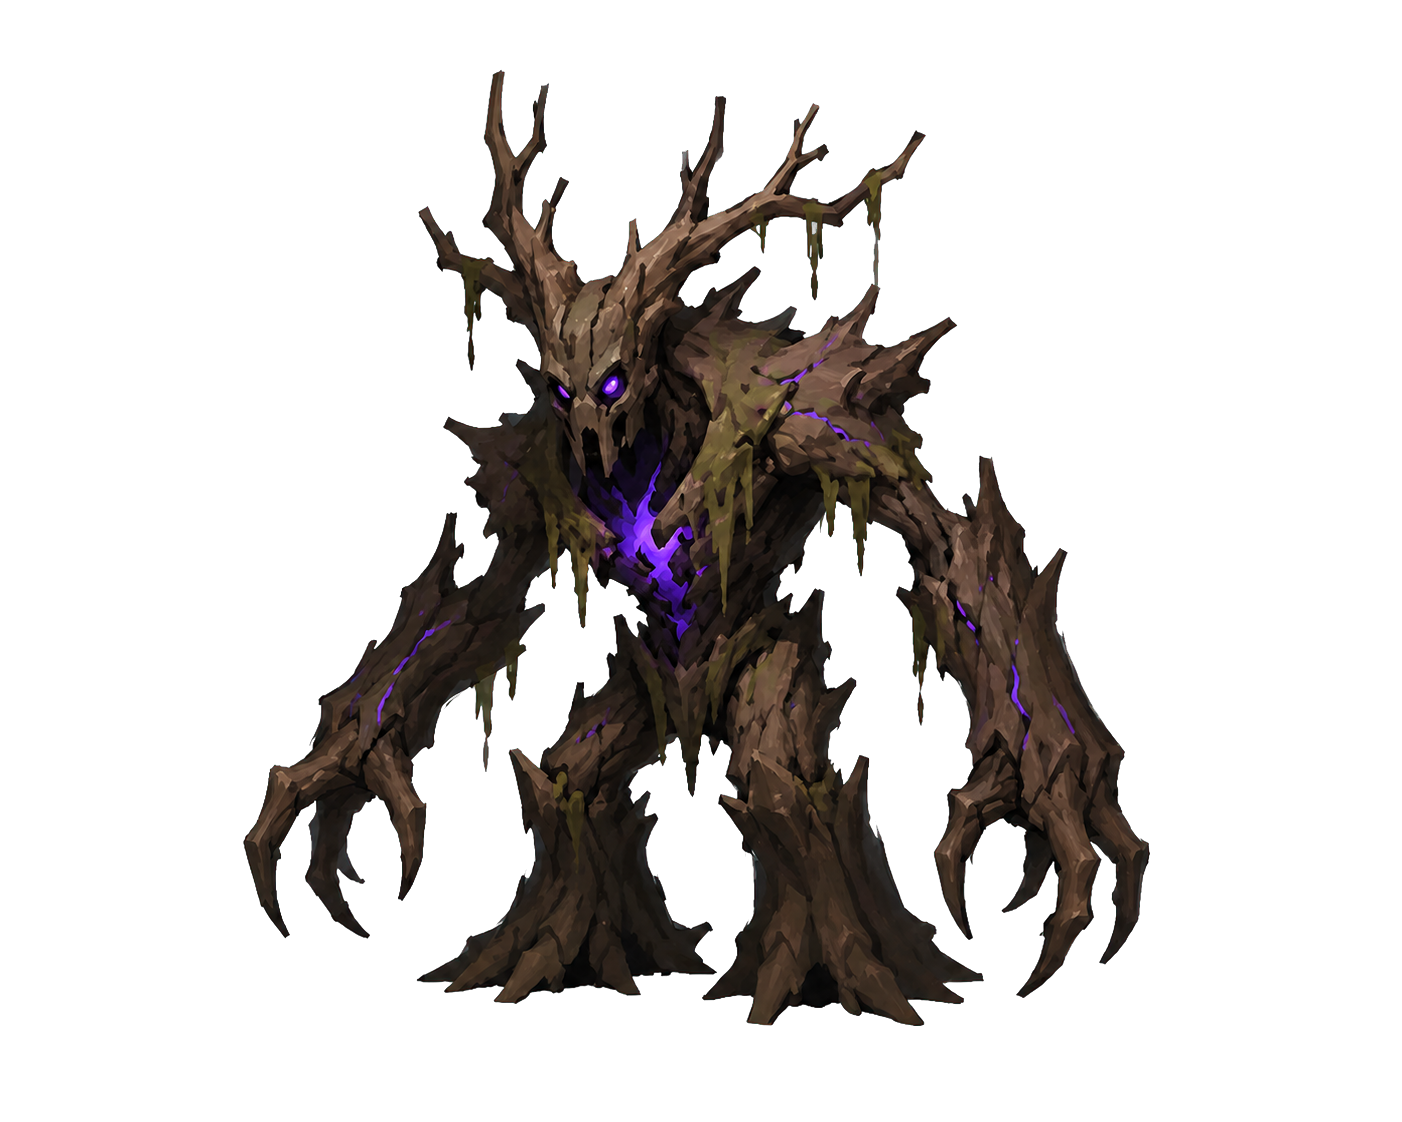
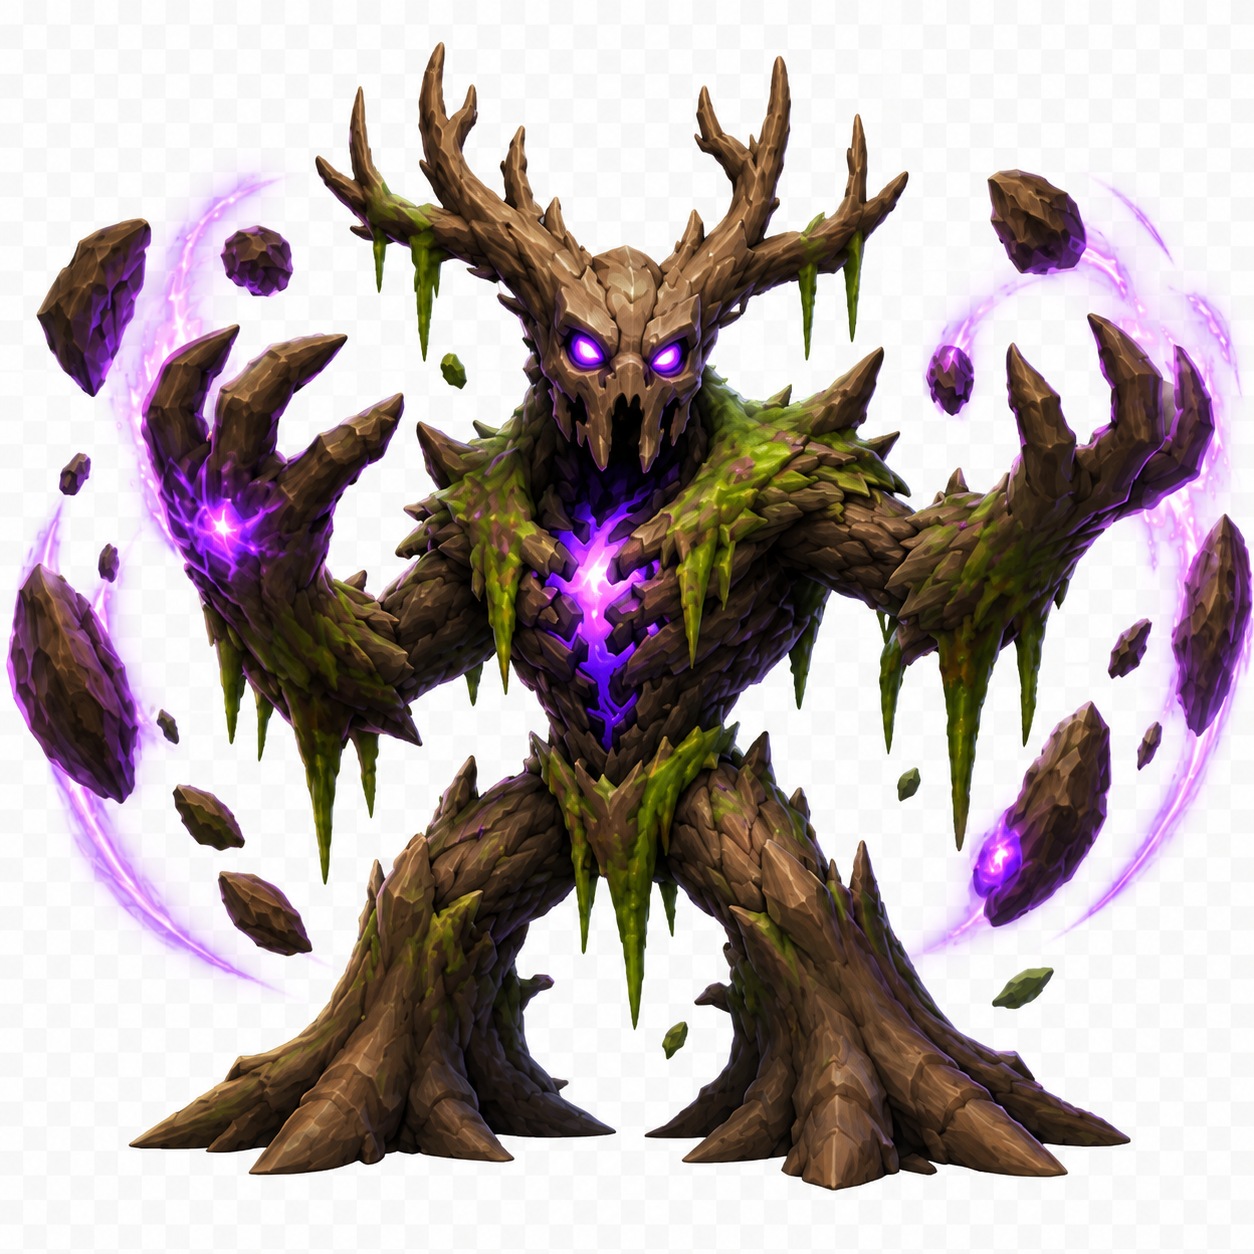
更新黑森林入口怪物圖片

diff --git a/black-forest-entrance-policy.js b/black-forest-entrance-policy.js
@@ -45,12 +45,12 @@
   }
 
   const MONSTERS = Object.freeze([
-    monster('black-forest-wolf', '黑森林野狼', 'normal', '快速流血攻擊', { combatId: 'blackForestWolf', level: Object.freeze([15, 16]), image: 'assets/black-forest-wolf.png', stats: Object.freeze({ maxHp: 145, attack: 27, defense: 13, evasion: 12, parry: 0, damageReduction: 2, attackSpeed: 1.2, xp: 20, gold: 10 }), skillIds: Object.freeze(['shadow-bite']), aiProfileId: 'fast-bleeder' }),
-    monster('corrupted-boar', '腐化野豬', 'normal', '高耐久衝撞怪物', { combatId: 'corruptedBoar', level: Object.freeze([15, 16]), image: 'assets/corrupted-boar.png', stats: Object.freeze({ maxHp: 220, attack: 26, defense: 20, evasion: 2, parry: 0, damageReduction: 8, attackSpeed: .8, xp: 23, gold: 12 }), skillIds: Object.freeze(['corrupted-hide', 'irritable', 'charge']), aiProfileId: 'durable-charger' }),
-    monster('shadow-spider', '暗影蜘蛛', 'normal', '持續中毒攻擊', { combatId: 'shadowSpider', level: Object.freeze([16, 17]), image: 'assets/shadow-spider.png', stats: Object.freeze({ maxHp: 155, attack: 24, defense: 12, evasion: 10, parry: 0, damageReduction: 1, attackSpeed: 1.1, xp: 24, gold: 12 }), skillIds: Object.freeze(['venom-fang']), aiProfileId: 'poison-controller', tags: Object.freeze(['poison']) }),
-    monster('withered-tree-walker', '枯木行者', 'normal', '高防禦控制怪物', { combatId: 'witheredTreeWalker', level: Object.freeze([16, 17]), image: 'assets/withered-tree-walker.png', stats: Object.freeze({ maxHp: 250, attack: 23, defense: 23, evasion: 0, parry: 0, damageReduction: 10, attackSpeed: .7, xp: 27, gold: 14 }), skillIds: Object.freeze(['bark-armor', 'entangling-roots']), aiProfileId: 'tank-controller' }),
-    monster('black-forest-hunter', '黑森林獵人', 'elite', '束縛與處決低生命目標', { combatId: 'blackForestHunter', level: Object.freeze([17, 17]), image: 'assets/black-forest-hunter.png', stats: Object.freeze({ maxHp: 620, attack: 34, defense: 18, evasion: 13, parry: 8, damageReduction: 7, attackSpeed: 1.15, xp: 72, gold: 42 }), skillIds: Object.freeze(['binding-arrow', 'execution-arrow']), aiProfileId: 'lowest-health-executioner', visualStyle: 'night-elf' }),
-    monster('forest-guardian', '森林守護者', 'boss', '三階段入口守關 Boss', { combatId: 'forestGuardianV2', level: Object.freeze([17, 17]), image: 'assets/forest-guardian.png', stats: Object.freeze({ maxHp: 2100, attack: 33, defense: 25, evasion: 4, parry: 6, damageReduction: 12, attackSpeed: .9, xp: 300, gold: 180 }), skillIds: Object.freeze(['root-strike', 'leaf-storm', 'forest-wrath']), aiProfileId: 'three-phase-guardian' })
+    monster('black-forest-wolf', '黑森林野狼', 'normal', '快速流血攻擊', { combatId: 'blackForestWolf', level: Object.freeze([15, 16]), image: 'assets/black-forest-wolf.png?v=20260901-entrance-monsters-v2', stats: Object.freeze({ maxHp: 145, attack: 27, defense: 13, evasion: 12, parry: 0, damageReduction: 2, attackSpeed: 1.2, xp: 20, gold: 10 }), skillIds: Object.freeze(['shadow-bite']), aiProfileId: 'fast-bleeder' }),
+    monster('corrupted-boar', '腐化野豬', 'normal', '高耐久衝撞怪物', { combatId: 'corruptedBoar', level: Object.freeze([15, 16]), image: 'assets/corrupted-boar.png?v=20260901-entrance-monsters-v2', stats: Object.freeze({ maxHp: 220, attack: 26, defense: 20, evasion: 2, parry: 0, damageReduction: 8, attackSpeed: .8, xp: 23, gold: 12 }), skillIds: Object.freeze(['corrupted-hide', 'irritable', 'charge']), aiProfileId: 'durable-charger' }),
+    monster('shadow-spider', '暗影蜘蛛', 'normal', '持續中毒攻擊', { combatId: 'shadowSpider', level: Object.freeze([16, 17]), image: 'assets/shadow-spider.png?v=20260901-entrance-monsters-v2', stats: Object.freeze({ maxHp: 155, attack: 24, defense: 12, evasion: 10, parry: 0, damageReduction: 1, attackSpeed: 1.1, xp: 24, gold: 12 }), skillIds: Object.freeze(['venom-fang']), aiProfileId: 'poison-controller', tags: Object.freeze(['poison']) }),
+    monster('withered-tree-walker', '枯木行者', 'normal', '高防禦控制怪物', { combatId: 'witheredTreeWalker', level: Object.freeze([16, 17]), image: 'assets/withered-tree-walker.png?v=20260901-entrance-monsters-v2', stats: Object.freeze({ maxHp: 250, attack: 23, defense: 23, evasion: 0, parry: 0, damageReduction: 10, attackSpeed: .7, xp: 27, gold: 14 }), skillIds: Object.freeze(['bark-armor', 'entangling-roots']), aiProfileId: 'tank-controller' }),
+    monster('black-forest-hunter', '黑森林獵人', 'elite', '束縛與處決低生命目標', { combatId: 'blackForestHunter', level: Object.freeze([17, 17]), image: 'assets/black-forest-hunter.png?v=20260901-entrance-monsters-v2', stats: Object.freeze({ maxHp: 620, attack: 34, defense: 18, evasion: 13, parry: 8, damageReduction: 7, attackSpeed: 1.15, xp: 72, gold: 42 }), skillIds: Object.freeze(['binding-arrow', 'execution-arrow']), aiProfileId: 'lowest-health-executioner', visualStyle: 'night-elf' }),
+    monster('forest-guardian', '森林守護者', 'boss', '三階段入口守關 Boss', { combatId: 'forestGuardianV2', level: Object.freeze([17, 17]), image: 'assets/forest-guardian.png?v=20260901-entrance-monsters-v2', stats: Object.freeze({ maxHp: 2100, attack: 33, defense: 25, evasion: 4, parry: 6, damageReduction: 12, attackSpeed: .9, xp: 300, gold: 180 }), skillIds: Object.freeze(['root-strike', 'leaf-storm', 'forest-wrath']), aiProfileId: 'three-phase-guardian' })
   ]);
 
   const MONSTER_BY_ID = new Map(MONSTERS.map((entry) => [entry.id, entry]));

diff --git a/tests/black-forest-entrance-policy.test.js b/tests/black-forest-entrance-policy.test.js
@@ -20,12 +20,13 @@ assert.equal(policy.getMonstersByRank('elite').length, 1);
 assert.equal(policy.getMonstersByRank('boss').length, 1);
 assert.equal(policy.getMonster('black-forest-hunter').visualStyle, 'night-elf');
 assert.deepEqual(policy.getMonster('shadow-spider').tags, ['poison']);
-assert.equal(policy.getMonster('black-forest-wolf').image, 'assets/black-forest-wolf.png');
-assert.equal(policy.getMonster('corrupted-boar').image, 'assets/corrupted-boar.png');
-assert.equal(policy.getMonster('shadow-spider').image, 'assets/shadow-spider.png');
-assert.equal(policy.getMonster('withered-tree-walker').image, 'assets/withered-tree-walker.png');
-assert.equal(policy.getMonster('black-forest-hunter').image, 'assets/black-forest-hunter.png');
-assert.equal(policy.getMonster('forest-guardian').image, 'assets/forest-guardian.png');
+const entranceMonsterImageVersion = '?v=20260901-entrance-monsters-v2';
+assert.equal(policy.getMonster('black-forest-wolf').image, `assets/black-forest-wolf.png${entranceMonsterImageVersion}`);
+assert.equal(policy.getMonster('corrupted-boar').image, `assets/corrupted-boar.png${entranceMonsterImageVersion}`);
+assert.equal(policy.getMonster('shadow-spider').image, `assets/shadow-spider.png${entranceMonsterImageVersion}`);
+assert.equal(policy.getMonster('withered-tree-walker').image, `assets/withered-tree-walker.png${entranceMonsterImageVersion}`);
+assert.equal(policy.getMonster('black-forest-hunter').image, `assets/black-forest-hunter.png${entranceMonsterImageVersion}`);
+assert.equal(policy.getMonster('forest-guardian').image, `assets/forest-guardian.png${entranceMonsterImageVersion}`);
 assert.ok(policy.MONSTERS.every((monster) => monster.image !== null));
 assert.ok(policy.MONSTERS.every((monster) => monster.stats !== null && monster.dropTableId === 'black-forest-entrance-pending'
   && monster.aiProfileId !== null && monster.skillIds.length > 0 && monster.implemented === true));
